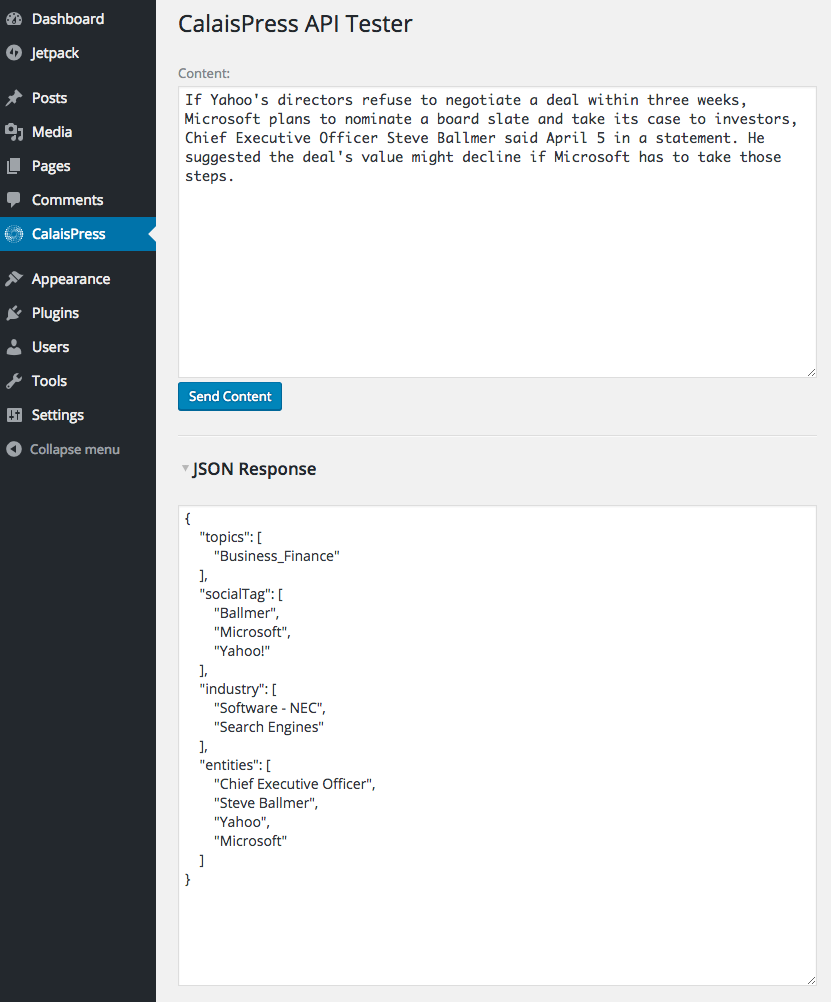
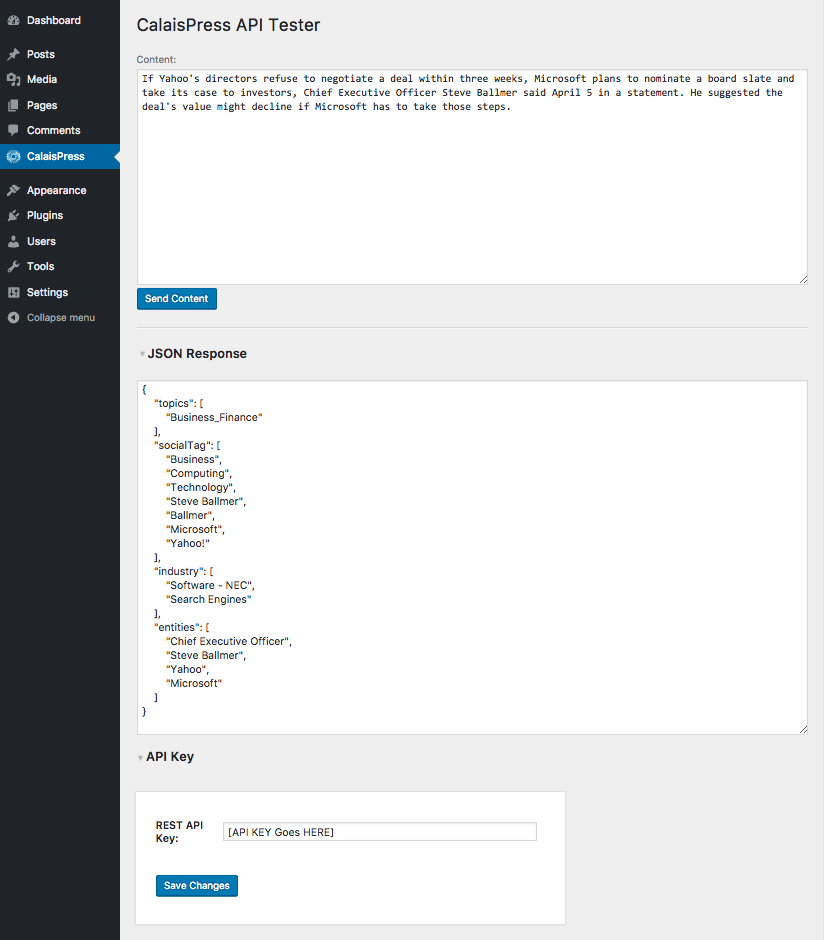
Updated Readme & Screenshot

Changed region(s): [[0.0, 0.0, 0.9709, 1.0]]

diff --git a/README.md b/README.md
@@ -1,4 +1,14 @@
 # CalaisPress
-Metadata tagging test tool for WordPress.
+Metadata tagging test tool for WordPress using the [Thomson Reuters Open Calais](http://www.opencalais.com/) enhanced tagging engine API.
+
+> Open Calais processes the text you submit and returns: Entities, Topic codes, Events, Relations and SocialTags.
 
 ![CalaisPress Admin Screenshot](https://raw.githubusercontent.com/rveitch/CalaisPress/master/calaispress-screenshot.png)
+
+## Setup
+- [Register and get an Open Calais API Key](http://www.opencalais.com/opencalais-api/)
+- Enter your API key in `REST API Key:` field at the bottom of the CalaisPress dashboard page and click `Save Changes`
+
+## Use
+- Enter the plain text content you would like to test and click `Send Content`.
+- The suggested tags object will appear below in the JSON Response field.
